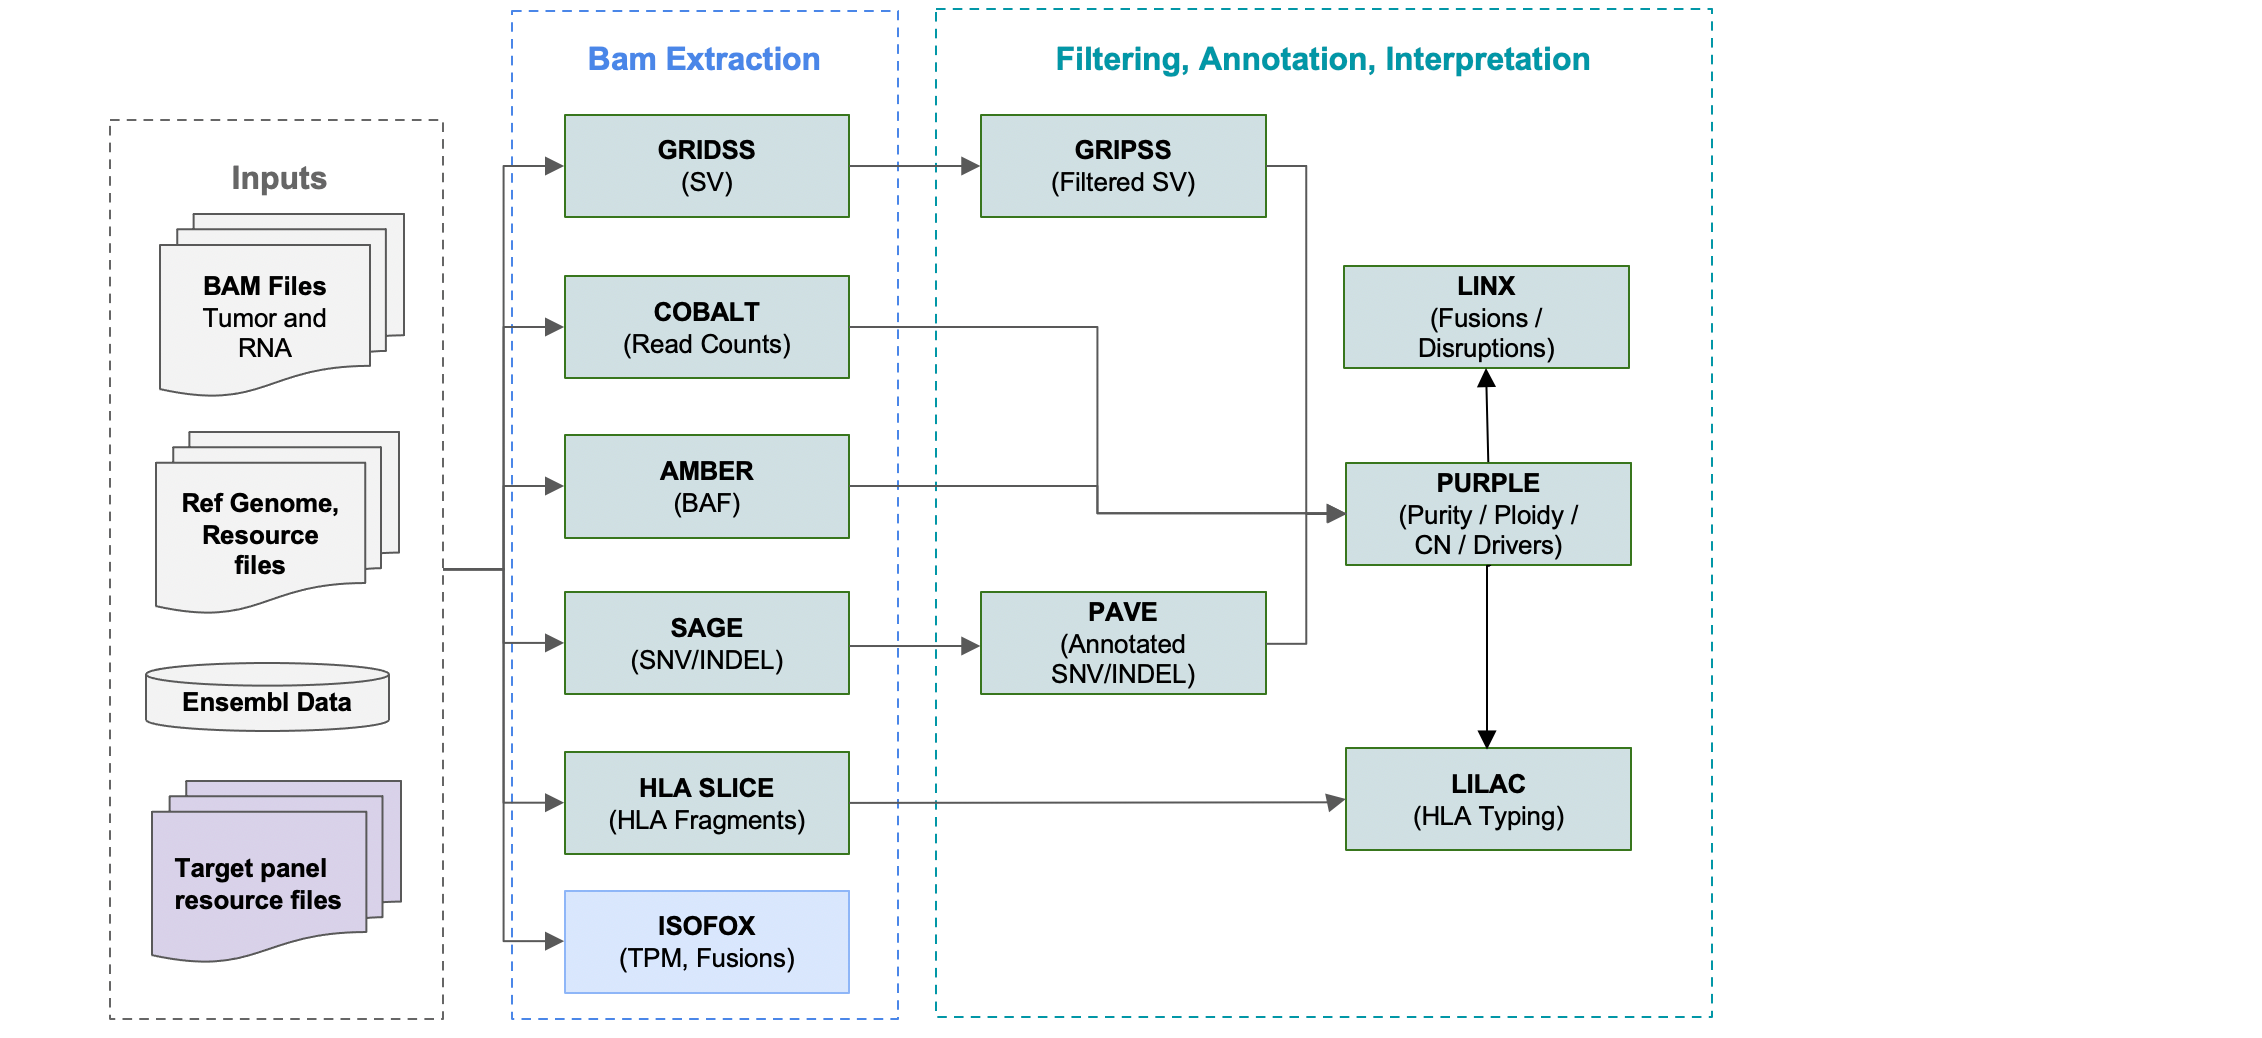
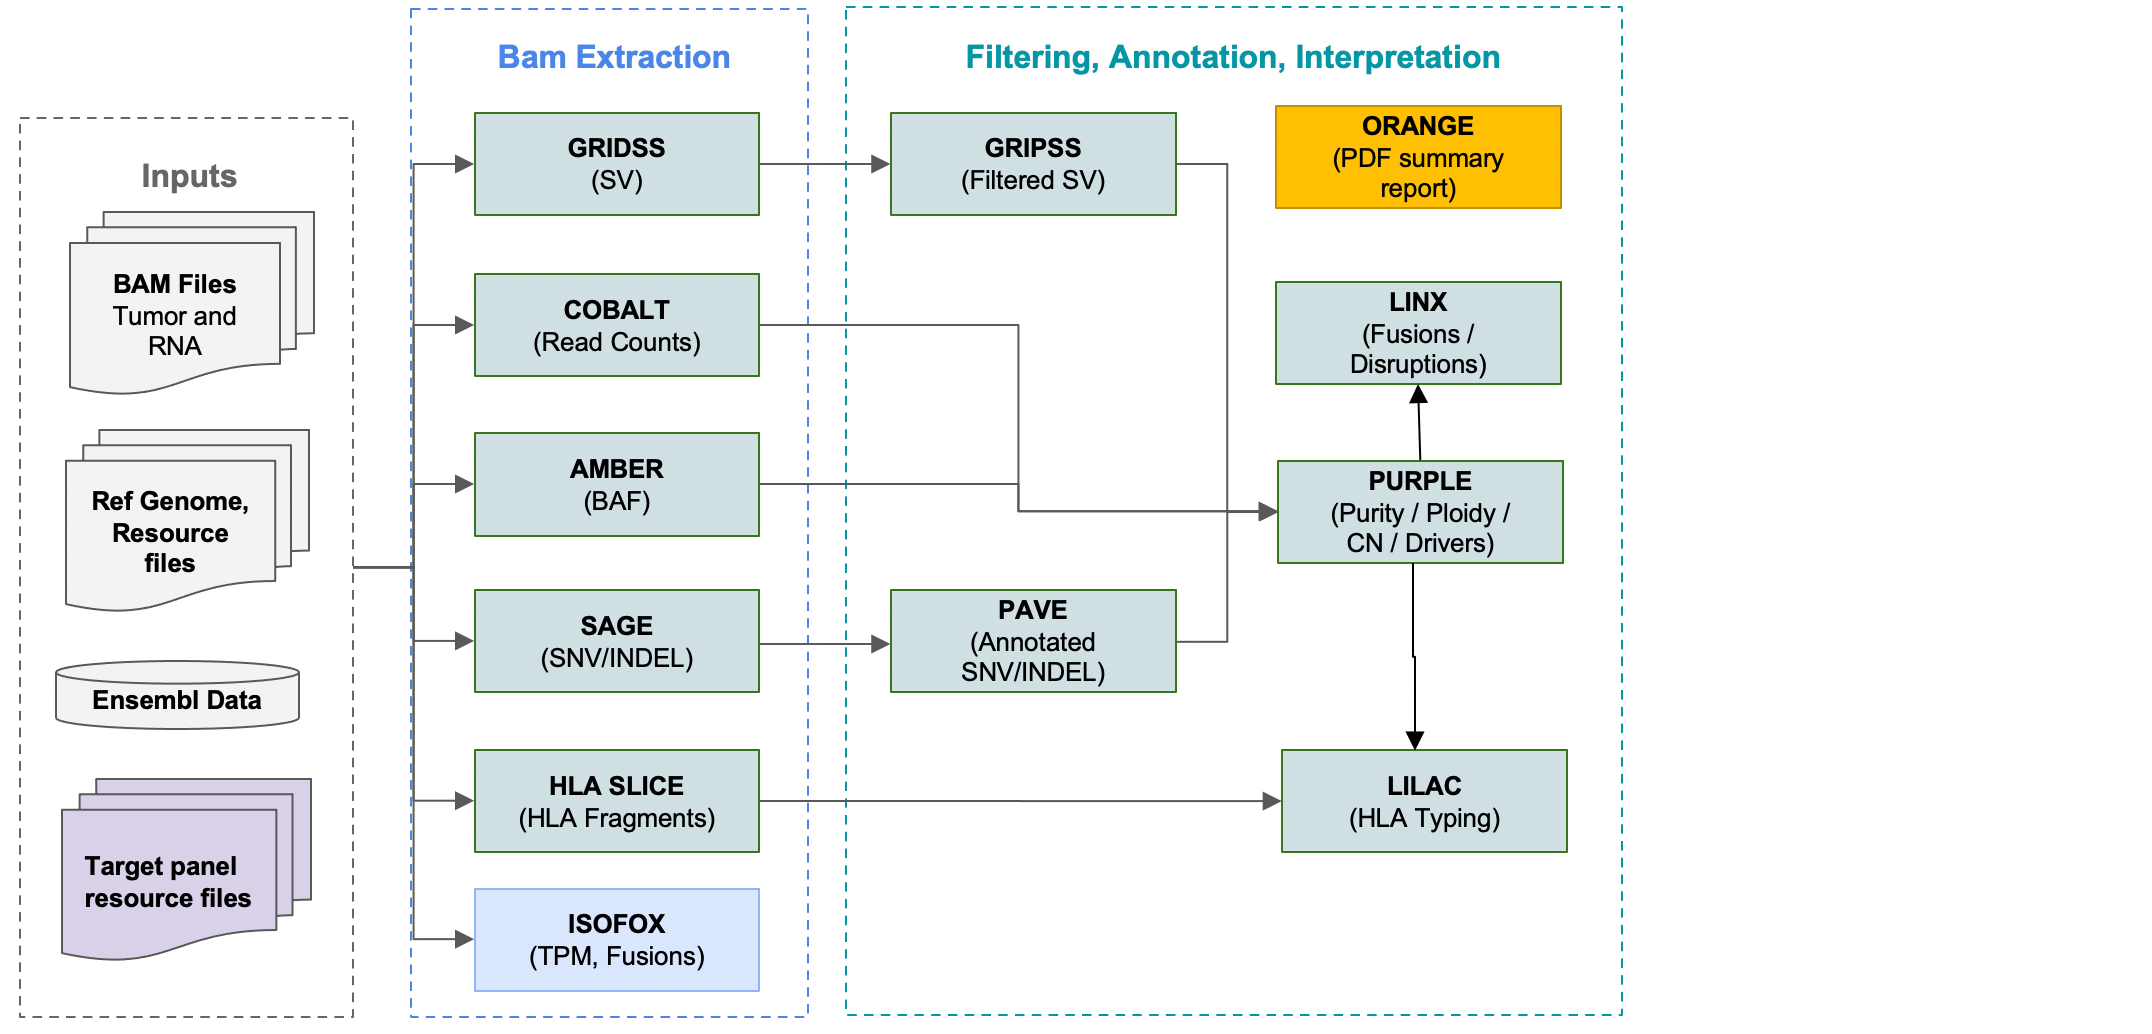
Pipeline: added Orange to workflow images, other minor changes

diff --git a/pipeline/README_ONCOANALYSER.md b/pipeline/README_ONCOANALYSER.md
@@ -10,9 +10,8 @@ set of inputs. This is achieved through flexible prefined configuration for indi
 retrieved at runtime for each process, and automated on-demand staging of reference genomes and resource files. The
 only required input to run an analysis with oncoanalyser is a samplesheet describing sample inputs.
 
-Both the [WGTS](../README.md#dna-pipeline-components) and [targeted
-sequencing](README_PANEL.md) workflows are available in oncoanalyser. The targeted sequencing workflow has built-in
-support for the TSO500 panel and can be configured to work with custom DNA/RNA panels.
+Both the WGS/WTS and targeted sequencing workflows are available in oncoanalyser. The targeted sequencing workflow has built-in
+support for the TSO500 panel and in future releases will be configured to work with custom DNA/RNA panels.
 
 As oncoanalyser is written using Nextflow, it supports a range of compute environments including AWS, Azure, GCP, and
 HPC. Other features include continuous checkpointing with run resuming and the ability to integrate with [Seqera
@@ -205,12 +204,17 @@ analysis has completed this directory can be removed.
 | Execution | `pipeline_info/execution_report_*.html`   | HTML report of execution metrics and details                       |
 | Timeline  | `pipeline_info/execution_timeline_*.html` | Timeline diagram showing process execution (start/duration/finish) |
 
+
+## Future Improvements
+The following improvements are planned for the next few releases:
+* support for custom targeted panels
+* apply HMF's MarkDuplicates & UMI-analysis to BAMs prior to variant calling
+* longitudinal analysis of patient samples including ctDNA samples
+* ancillary analyses for neoantigen burden
+* cloud-specific instructions and optimisations (ie for AWS, Azure and GCP)
+
+
 ## Acknowledgements
 
 The oncoanalyser pipeline was written by Stephen Watts at the [University of Melbourne Centre for Cancer
-Research](https://mdhs.unimelb.edu.au/centre-for-cancer-research) with the support of the following collaborators,
-listed in alphabetical order:
-
-* Charles Shale
-* Oliver Hofmann
-* Peter Priestley
+Research](https://mdhs.unimelb.edu.au/centre-for-cancer-research) with the support of Oliver Hofmann and the Hartwig Medical Foundation Australia.
